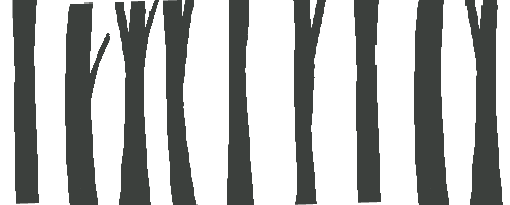
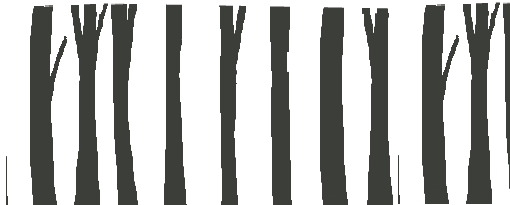
fixed parallax speeds; added another background layer

diff --git a/Backtrack/Backtrack/Game.cpp b/Backtrack/Backtrack/Game.cpp
@@ -336,6 +336,7 @@ void Game::renderGameplay()
 	m_window.draw(m_background2Sprite);
 	m_window.draw(m_background3Sprite);
 	m_window.draw(m_background4Sprite);
+	m_window.draw(m_background5Sprite);
 
 	for (int row = 0; row < TILE_ROWS; row++)
 	{
@@ -429,6 +430,15 @@ void Game::setupImages()
 	m_background4Sprite.setOrigin(m_background4Sprite.getGlobalBounds().getCenter());
 	m_background4Sprite.setScale(BACKGROUND_SCALE);
 	m_background4Sprite.setPosition(m_defaultView.getCenter());
+
+	if (!m_background5Texture.loadFromFile("ASSETS\\IMAGES\\skybox5.png"))
+	{
+		std::cout << "problem loading background layer 5" << std::endl;
+	}
+	m_background5Sprite.setTexture(m_background5Texture, true);
+	m_background5Sprite.setOrigin(m_background5Sprite.getGlobalBounds().getCenter());
+	m_background5Sprite.setScale(BACKGROUND_SCALE);
+	m_background5Sprite.setPosition(m_defaultView.getCenter());
 }
 
 void Game::setupFonts()
@@ -569,28 +579,30 @@ void Game::handleCameraMovement(sf::Time t_deltaTime)
 
 void Game::parallaxBackground(sf::Time t_deltaTime)
 {
-	float parallaxSpeed = t_deltaTime.asSeconds() * 7.0f;
 	sf::Vector2f viewCenter = m_playerView.getCenter();
 	sf::Vector2f defaultCenter = m_defaultView.getCenter();
 
-	for (int i = 0; i < 4; i++)
+	for (int i = 0; i < 5; i++)
 	{
-		parallaxSpeed = t_deltaTime.asSeconds() * (5.0f + i * 3.0f);
+		float parallaxSpeed = t_deltaTime.asSeconds() * (5.0f + i * 4.0f);
 		sf::Vector2f backgroundPos = defaultCenter + (viewCenter - defaultCenter) * parallaxSpeed;
 
 		switch (i)
 		{
 		case 0:
-			m_background1Sprite.setPosition(backgroundPos);
+			m_background5Sprite.setPosition(backgroundPos);
 			break;
 		case 1:
-			m_background2Sprite.setPosition(backgroundPos);
+			m_background4Sprite.setPosition(backgroundPos);
 			break;
 		case 2:
 			m_background3Sprite.setPosition(backgroundPos);
 			break;
 		case 3:
-			m_background4Sprite.setPosition(backgroundPos);
+			m_background2Sprite.setPosition(backgroundPos);
+			break;
+		case 4:
+			m_background1Sprite.setPosition(backgroundPos);
 			break;
 		default:
 			break;

diff --git a/Backtrack/Backtrack/Game.h b/Backtrack/Backtrack/Game.h
@@ -137,6 +137,9 @@ private:
 	sf::Texture m_background4Texture;
 	sf::Sprite m_background4Sprite{ m_background4Texture };
 
+	sf::Texture m_background5Texture;
+	sf::Sprite m_background5Sprite{ m_background5Texture };
+
 	sf::View m_defaultView;
 	sf::View m_playerView;
 
